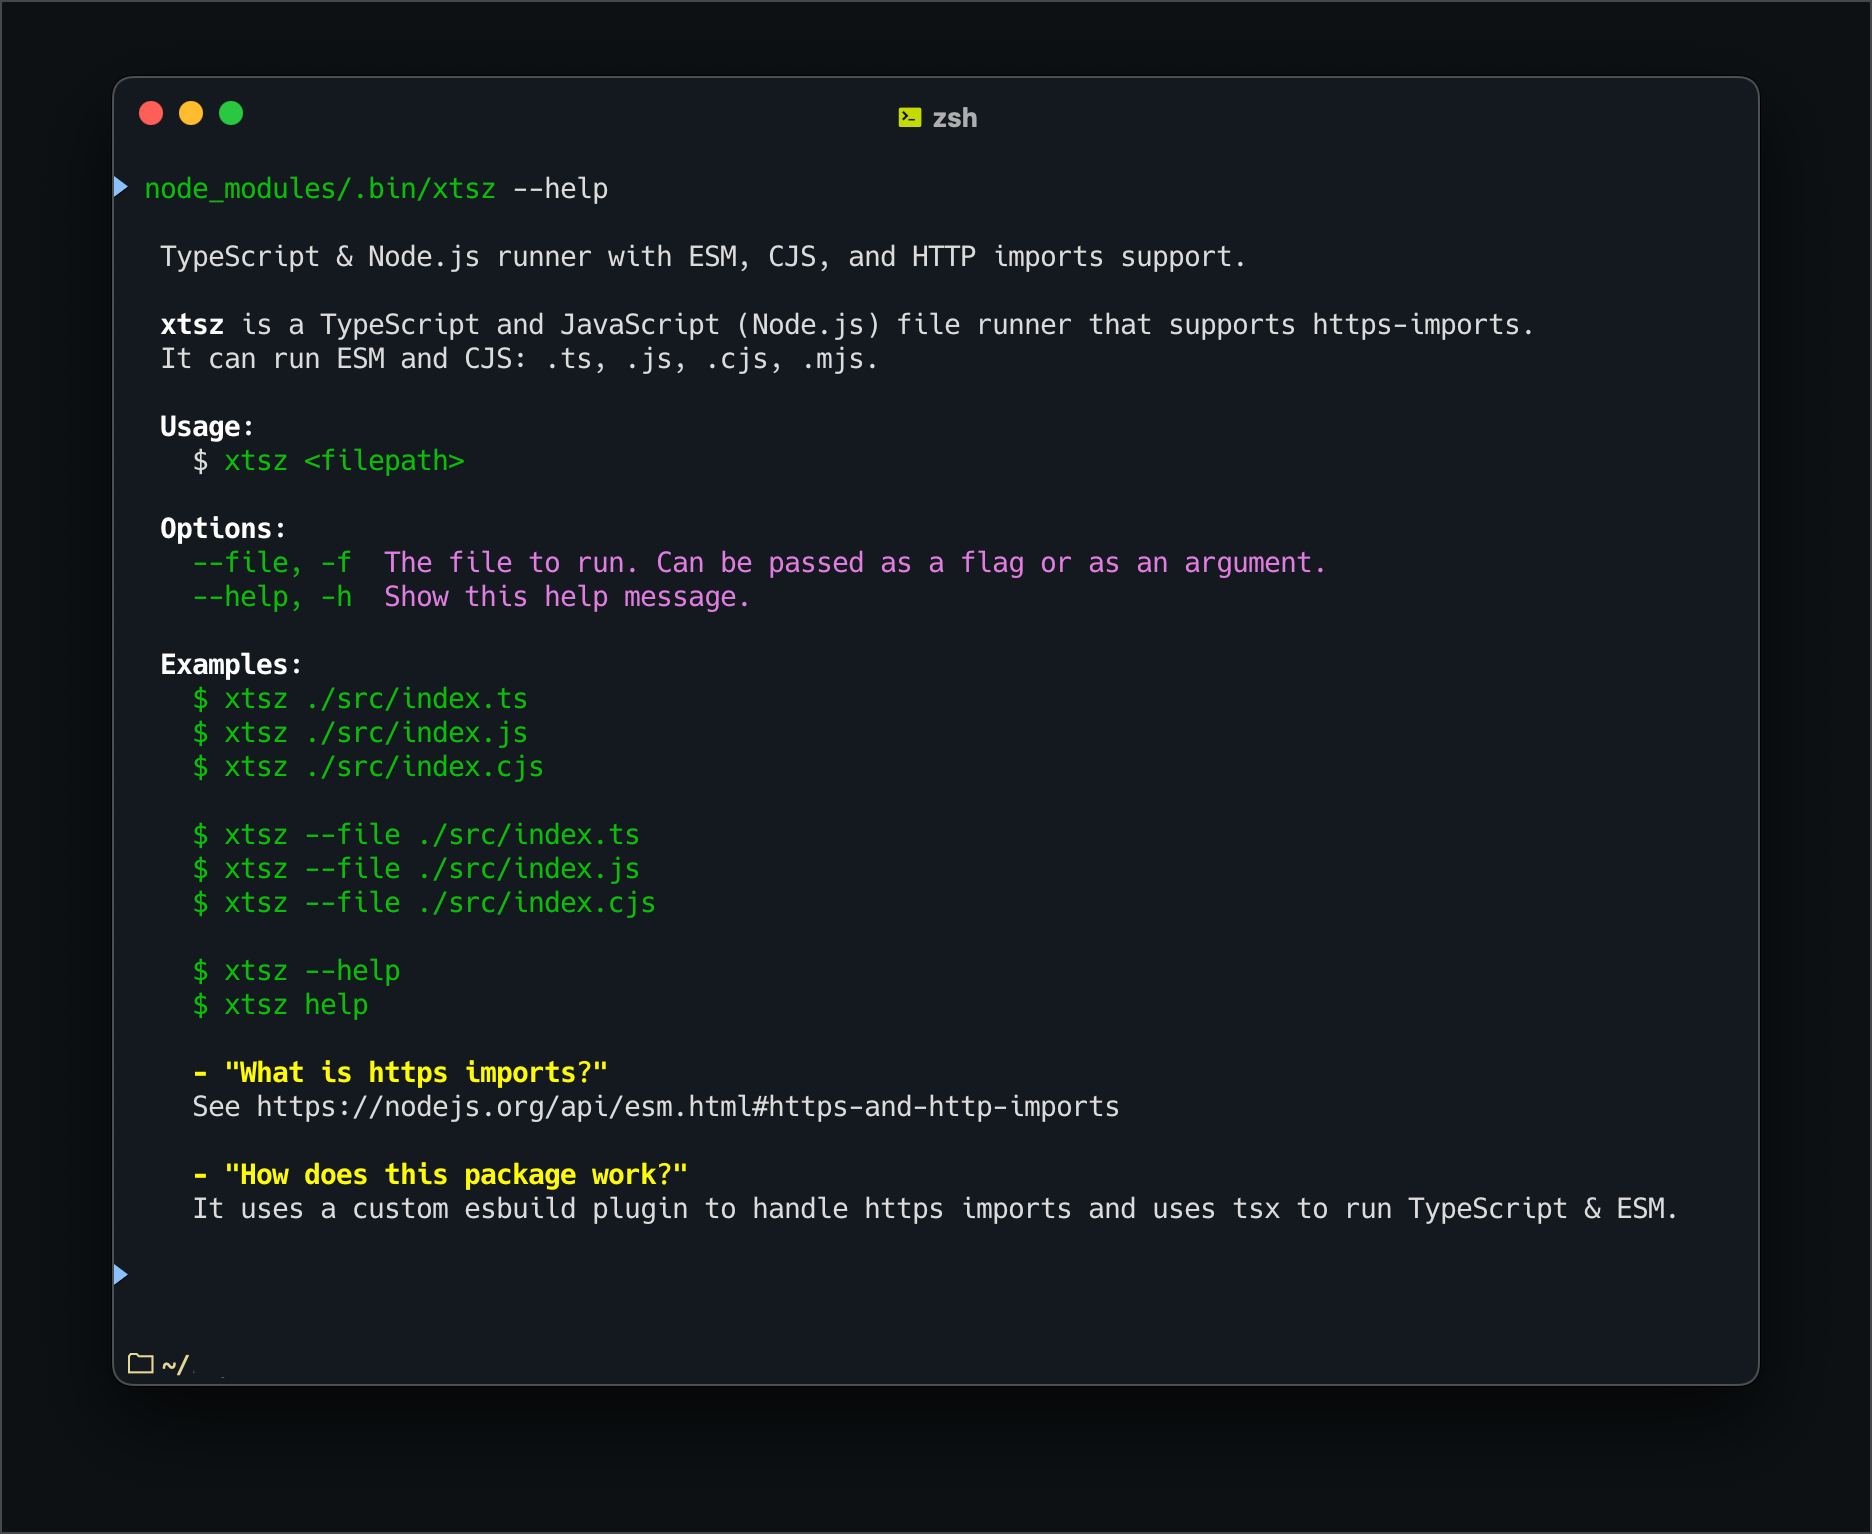
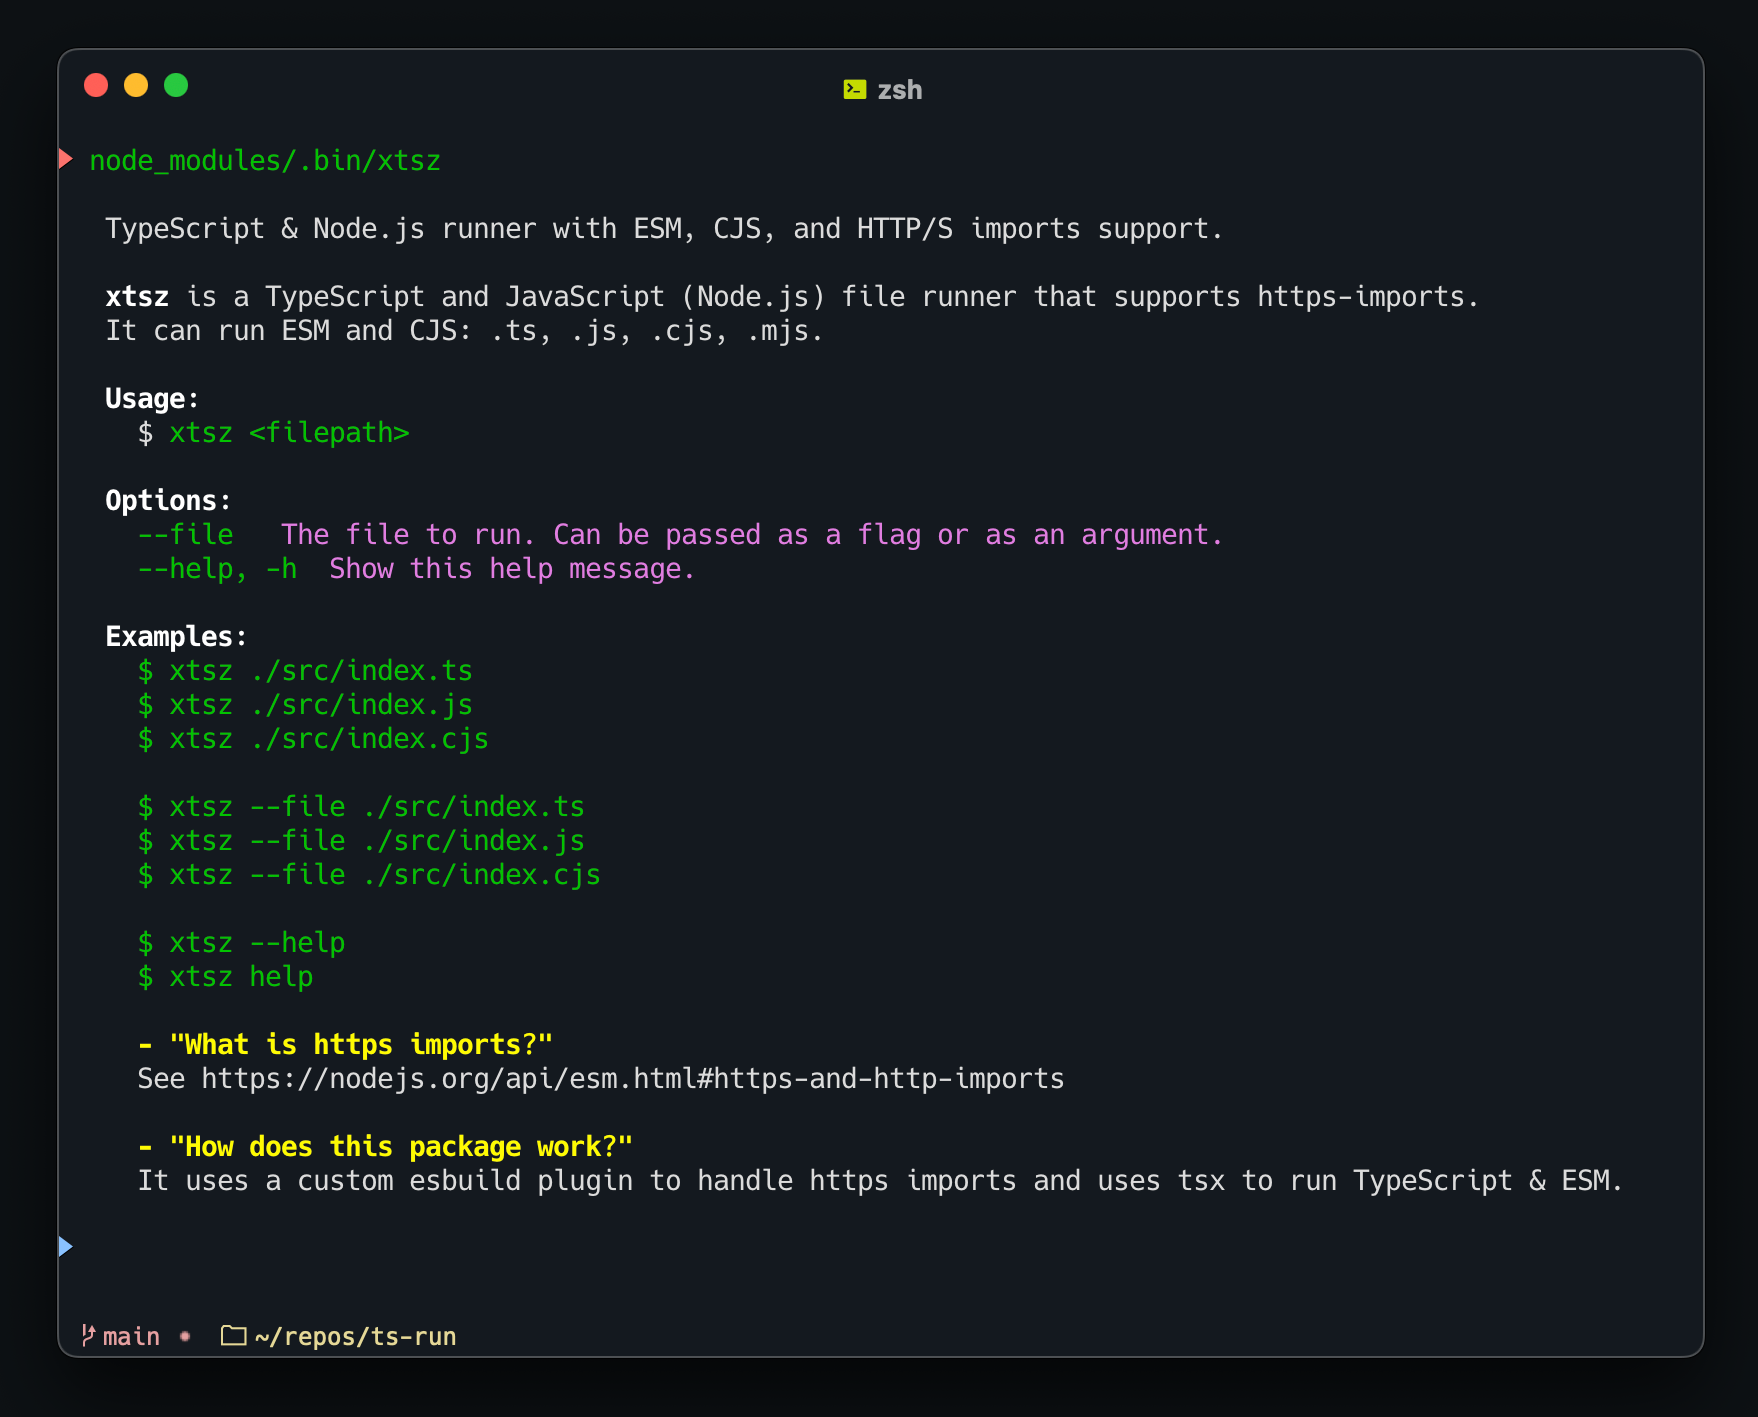
switch away from iife to support esnext

diff --git a/src/index.ts b/src/index.ts
@@ -1,3 +1,4 @@
+#!/usr/bin/env node
 import meow from 'meow'
 import { $, execa } from 'execa'
 import * as esbuild from 'esbuild'
@@ -24,24 +25,33 @@ function woof() {
   return filePath
 }
 
-//
-;(async () => {
-  const process = await import('node:process')
-  if (process.argv[2] === 'help') return process.stdout.write(helpMessage)
-  const filePath = woof()
-  const ENTRY_POINT = filePath
-  const OUT_FILE = `/tmp/${Date.now()}-out.js`
+async function main() {
+  try {
+    const process = await import('node:process')
+    if (process.argv[2] === 'help') return process.stdout.write(helpMessage)
+    const filePath = woof()
+    const ENTRY_POINT = filePath
+    const OUT_FILE = `/tmp/${Date.now()}-out.mjs`
 
-  await esbuild.build({
-    entryPoints: [ENTRY_POINT],
-    bundle: true,
-    outfile: OUT_FILE,
-    plugins: [httpPlugin],
-  })
+    await esbuild.build({
+      entryPoints: [ENTRY_POINT],
+      bundle: true,
+      outfile: OUT_FILE,
+      target: 'esnext',
+      format: 'esm',
+      plugins: [httpPlugin],
+    })
 
-  const { stdout } = await execa('tsx', [OUT_FILE])
-  process.stdout.write(stdout)
-  // lastly, remove the file
-  await $`rm -rf ${OUT_FILE}`
-  return stdout
-})()
+    const { stdout } = await execa('tsx', [OUT_FILE])
+    process.stdout.write(stdout)
+    // lastly, remove the file
+    await $`rm -rf ${OUT_FILE}`
+    return stdout
+  } catch (error) {
+    console.error(error)
+    console.info('\n\n\nPlease report this error to https://github.com/o-az/xtsz/issues. Really appreciate it!')
+    process.exit(1)
+  }
+}
+
+main()

diff --git a/test/index.test.ts b/test/index.test.ts
@@ -2,24 +2,27 @@ import { execa } from 'execa'
 import { it } from 'node:test'
 import * as assert from 'node:assert'
 
-const result = `{ result: { foo: 'bar' } }`
-
 it('should run a TypeScript file', async () => {
+  const result = `{ result: { foo: 'bar' } }`
   const { stdout } = await execa('node_modules/.bin/xtsz', ['./test/cases/index.ts'])
   assert.deepEqual(result, stdout)
 })
 
 it('should run a JavaScript file', async () => {
+  const result = `{ userId: 1, id: 1, title: 'delectus aut autem', completed: false }`
   const { stdout } = await execa('node_modules/.bin/xtsz', ['./test/cases/index.js'])
   assert.equal(stdout, result)
 })
 
 it('should run a CJS file', async () => {
+  const result = `{ result: { foo: 'bar' } }
+{ userId: 1, id: 1, title: 'delectus aut autem', completed: false }`
   const { stdout } = await execa('node_modules/.bin/xtsz', ['./test/cases/index.cjs'])
   assert.equal(stdout, result)
 })
 
 it('should run a file with --file flag', async () => {
+  const result = `{ result: { foo: 'bar' } }`
   const { stdout } = await execa('node_modules/.bin/xtsz', ['--file', './test/cases/index.ts'])
   assert.equal(stdout, result)
 })

diff --git a/src/help.ts b/src/help.ts
@@ -13,7 +13,7 @@ ${ansi.bold}Usage:${ansi.reset}
   $${ansi.green} xtsz <filepath> ${ansi.reset}
 
 ${ansi.bold}Options:${ansi.reset}
-  ${ansi.green}--file, -f${ansi.reset}${ansi.brightPurple}  The file to run. Can be passed as a flag or as an argument. ${ansi.reset}
+  ${ansi.green}--file ${ansi.reset}${ansi.brightPurple}  The file to run. Can be passed as a flag or as an argument. ${ansi.reset}
   ${ansi.green}--help, -h${ansi.reset}${ansi.brightPurple}  Show this help message. ${ansi.reset}
 
 ${ansi.bold}Examples:${ansi.reset}

diff --git a/test/cases/index.js b/test/cases/index.js
@@ -1,3 +1,4 @@
-import { example } from 'https://gist.githubusercontent.com/o-az/e8ed1e89fde52af306099ed28e297cae/raw/51a1d68f54ba0718c2ab72a52b97f13cf613563f/sample.js'
-const result = example()
-console.log({ result })
+let promise = await fetch('https://jsonplaceholder.typicode.com/todos/1')
+export let data = await promise.json()
+
+console.log(data)

diff --git a/tsup.config.ts b/tsup.config.ts
@@ -7,7 +7,7 @@ export default defineConfig({
   minify: true,
   outDir: './dist',
   platform: 'node',
+  target: 'esnext',
   format: ['esm'],
   entry: ['./src/index.ts'],
-  banner: _context => ({ js: `#!/usr/bin/env node` }),
 })

diff --git a/README.md b/README.md
@@ -1,6 +1,15 @@
 # **`xtsz`**  
 
 ```sh
+# pnpm
+pnpm add --save-dev xtsz
+# yarn
+yarn add --dev xtsz
+# npm
+npm install --save-dev xtsz
+```
+
+```sh
 xtsz is a TypeScript and JavaScript (Node.js) runner that supports https-imports.
 It can run ESM and CJS: .ts, .js, .cjs, .mjs.
 
@@ -9,7 +18,7 @@ Usage:
 
 
 Options:
-  --file, -f  The file to run. Can be passed as a flag or as an argument.
+  --file  The file to run. Can be passed as a flag or as an argument.
   --help, -h  Show this help message.
 
 Examples:
